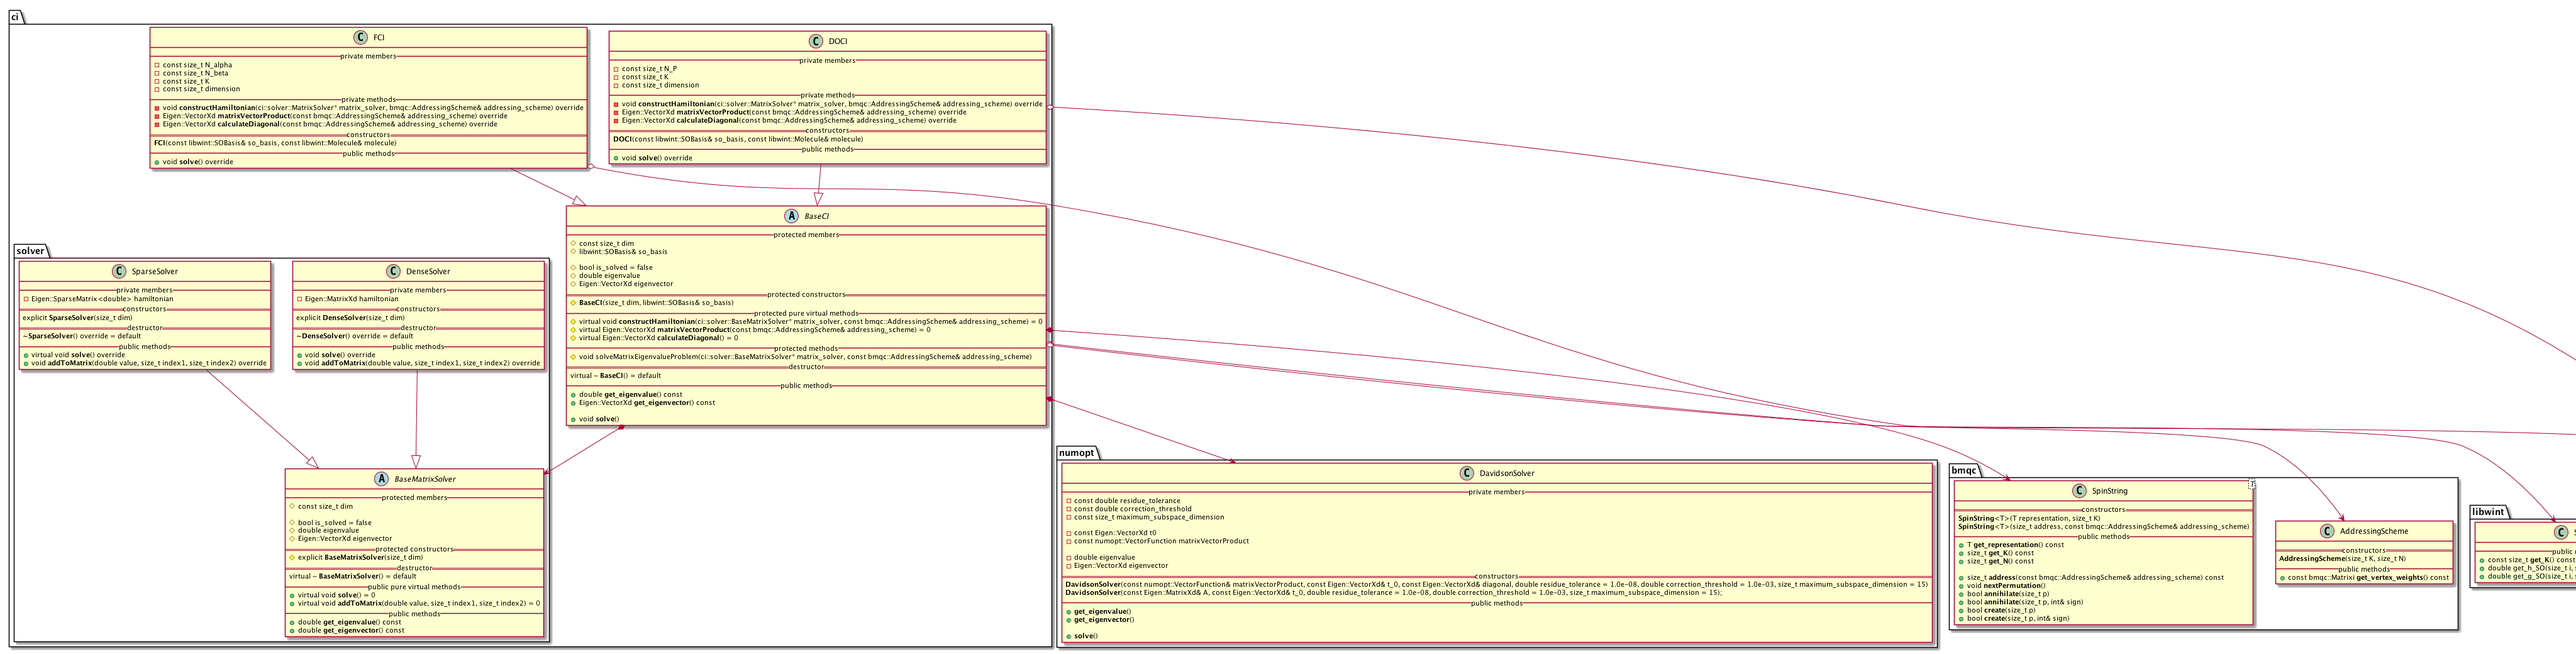
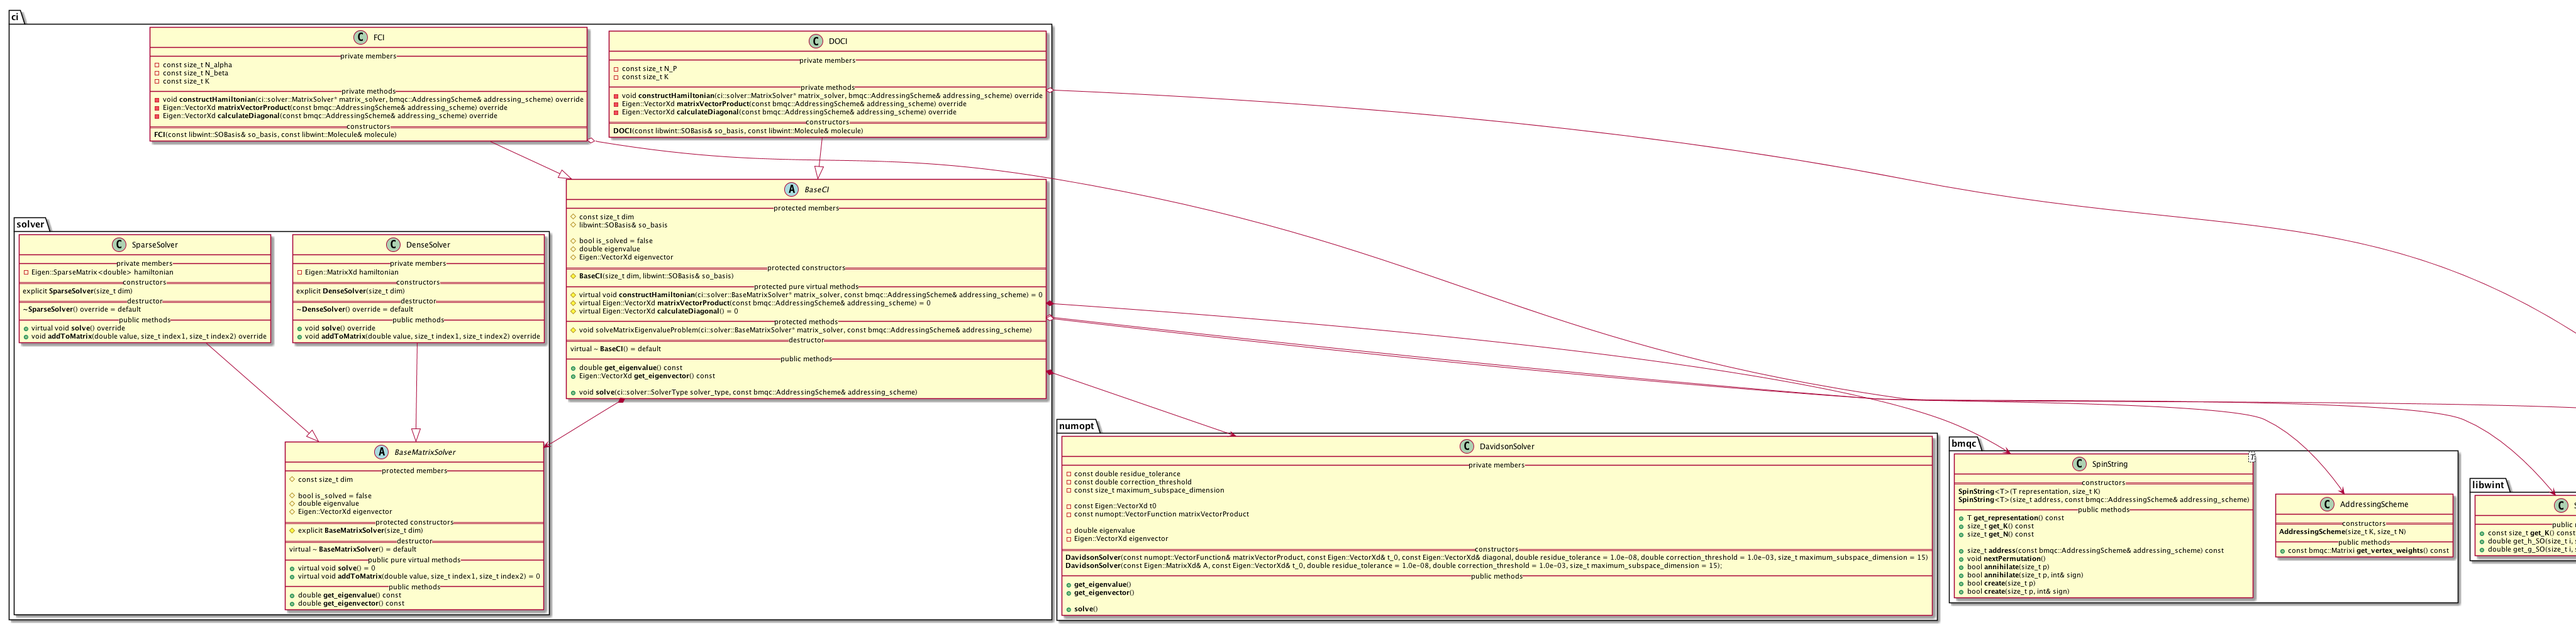
First small implementations for DOCI.

Changed region(s): [[0.0, 0.0311, 1.0, 0.994], [0.0, 0.6834, 0.2188, 0.994], [0.4688, 0.1553, 0.5, 0.1864]]

diff --git a/src/DOCI.cpp b/src/DOCI.cpp
@@ -1,1 +1,81 @@
 #include "DOCI.hpp"
+
+
+
+#include <boost/numeric/conversion/converter.hpp>
+#include <boost/math/special_functions.hpp>
+
+
+namespace ci {
+
+
+/*
+ *  OVERRIDDEN PRIVATE METHODS
+ */
+
+/**
+ *  Given a @param matrix_solver, construct the DOCI Hamiltonian matrix in the solver's matrix representation. An
+ *  @param addressing_scheme is used to speed up the searches for the addresses of coupling spin strings.
+ */
+void DOCI::constructHamiltonian(ci::solver::BaseMatrixSolver* matrix_solver, const bmqc::AddressingScheme& addressing_scheme) {
+
+}
+
+
+/**
+ *  Given a @param addressing_scheme, @return the action of the DOCI Hamiltonian of the coefficient vector @param x.
+ */
+Eigen::VectorXd DOCI::matrixVectorProduct(const bmqc::AddressingScheme& addressing_scheme, const Eigen::VectorXd& x) {
+
+}
+
+
+/**
+ *  @return the diagonal of the matrix representation of the DOCI Hamiltonian.
+ */
+Eigen::VectorXd DOCI::calculateDiagonal() {
+
+}
+
+
+
+/*
+ *  CONSTRUCTORS
+ */
+DOCI::DOCI(libwint::SOBasis& so_basis, const libwint::Molecule& molecule) :
+    N_P (molecule.get_N() / 2),
+    K (so_basis.get_K()),
+    BaseCI(this->calculateDimension(this->K, this->N_P), so_basis)
+{
+
+    // Do some input checks
+    if ((molecule.get_N() % 2) != 0) {
+        throw std::invalid_argument("Your basis contains an odd amount of electrons and is not suitable for DOCI");
+    }
+
+    if (this->K < this->N_P) {
+        throw std::invalid_argument("Too many electrons to place into the given number of spatial orbitals");
+    }
+
+}
+
+
+/*
+ *  STATIC PUBLIC METHODS
+ */
+/**
+ *  Given a number of spatial orbitals @param K and a number of electron pairs @param N_P, @return the dimension of
+ *  the DOCI space.
+ */
+size_t DOCI::calculateDimension(size_t K, size_t N_P) {
+
+    // K and N_P are expected to be small, so static-casting them to unsigned (what boost needs) is permitted.
+    auto dim_double = boost::math::binomial_coefficient<double>(static_cast<unsigned>(K), static_cast<unsigned>(N_P));
+
+
+    // Check if the resulting dimension is appropriate to be stored in size_t
+    return boost::numeric::converter<double, size_t>::convert(dim_double);
+}
+
+
+}  // namespace ci

diff --git a/include/DOCI.hpp b/include/DOCI.hpp
@@ -2,9 +2,59 @@
 #define CI_DOCI_HPP
 
 
-class DOCI {
 
+#include "BaseCI.hpp"
+
+
+
+namespace ci {
+
+
+class DOCI : public ci::BaseCI {
+private:
+    const size_t N_P;  // number of electron pairs
+    const size_t K;  // number of spatial orbitals
+
+
+    // OVERRIDDEN PRIVATE METHODS
+    /**
+     *  Given a @param matrix_solver, construct the DOCI Hamiltonian matrix in the solver's matrix representation. An
+     *  @param addressing_scheme is used to speed up the searches for the addresses of coupling spin strings.
+     */
+    void constructHamiltonian(ci::solver::BaseMatrixSolver* matrix_solver, const bmqc::AddressingScheme& addressing_scheme) override;
+
+    /**
+     *  Given a @param addressing_scheme, @return the action of the DOCI Hamiltonian of the coefficient vector @param x.
+     */
+    Eigen::VectorXd matrixVectorProduct(const bmqc::AddressingScheme& addressing_scheme, const Eigen::VectorXd& x) override;
+
+    /**
+     *  @return the diagonal of the matrix representation of the DOCI Hamiltonian.
+     */
+    Eigen::VectorXd calculateDiagonal() override;
+
+
+
+public:
+    // DESTRUCTOR
+    ~DOCI() override = default;
+
+
+    // CONSTRUCTORS
+    DOCI(libwint::SOBasis& so_basis, const libwint::Molecule& molecule);
+
+
+    // STATIC PUBLIC METHODS
+    /**
+     *  Given a number of spatial orbitals @param K and a number of electron pairs @param N_P, @return the dimension of
+     *  the DOCI space.
+     */
+    static size_t calculateDimension(size_t K, size_t N_P);
 };
+
+
+}  // namespace ci
+
 
 
 #endif  // CI_DOCI_HPP

diff --git a/tests/DOCI_test.cpp b/tests/DOCI_test.cpp
@@ -1,0 +1,17 @@
+#define BOOST_TEST_MODULE "DOCI_test"
+
+
+
+#include "DOCI.hpp"
+
+#include <boost/test/unit_test.hpp>
+#include <boost/test/included/unit_test.hpp>
+
+
+
+BOOST_AUTO_TEST_CASE ( dimension ) {
+
+    BOOST_CHECK_EQUAL(ci::DOCI::calculateDimension(10, 1), 10);
+    BOOST_CHECK_EQUAL(ci::DOCI::calculateDimension(6, 2), 15);
+    BOOST_CHECK_EQUAL(ci::DOCI::calculateDimension(8, 3), 56);
+}
